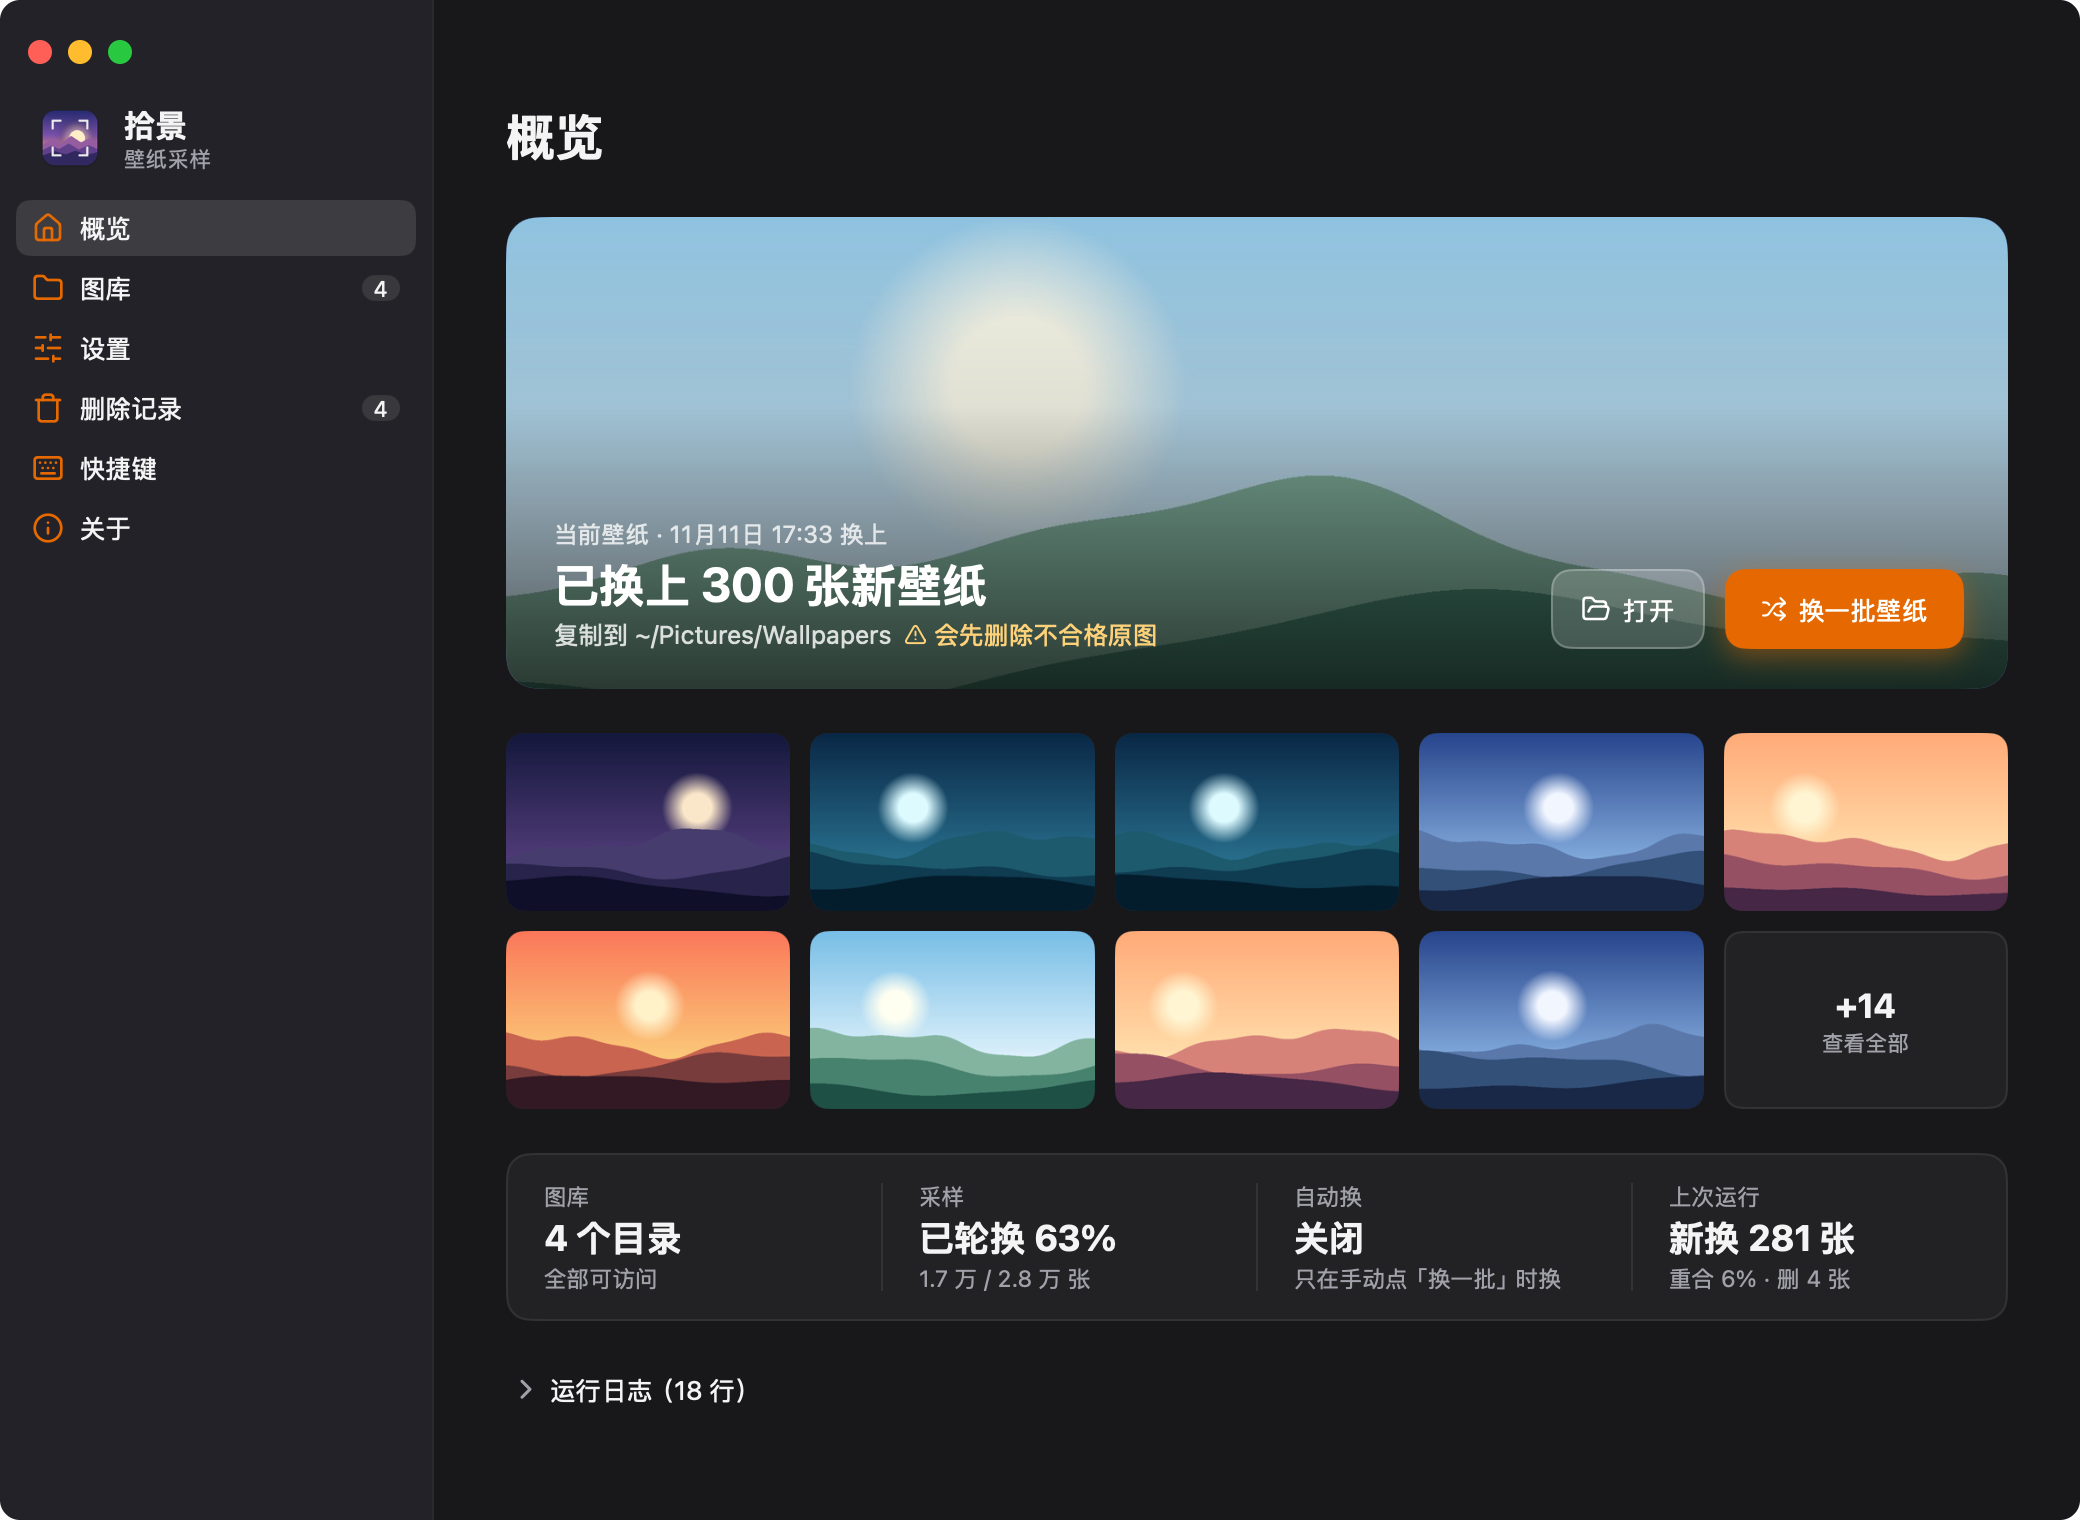
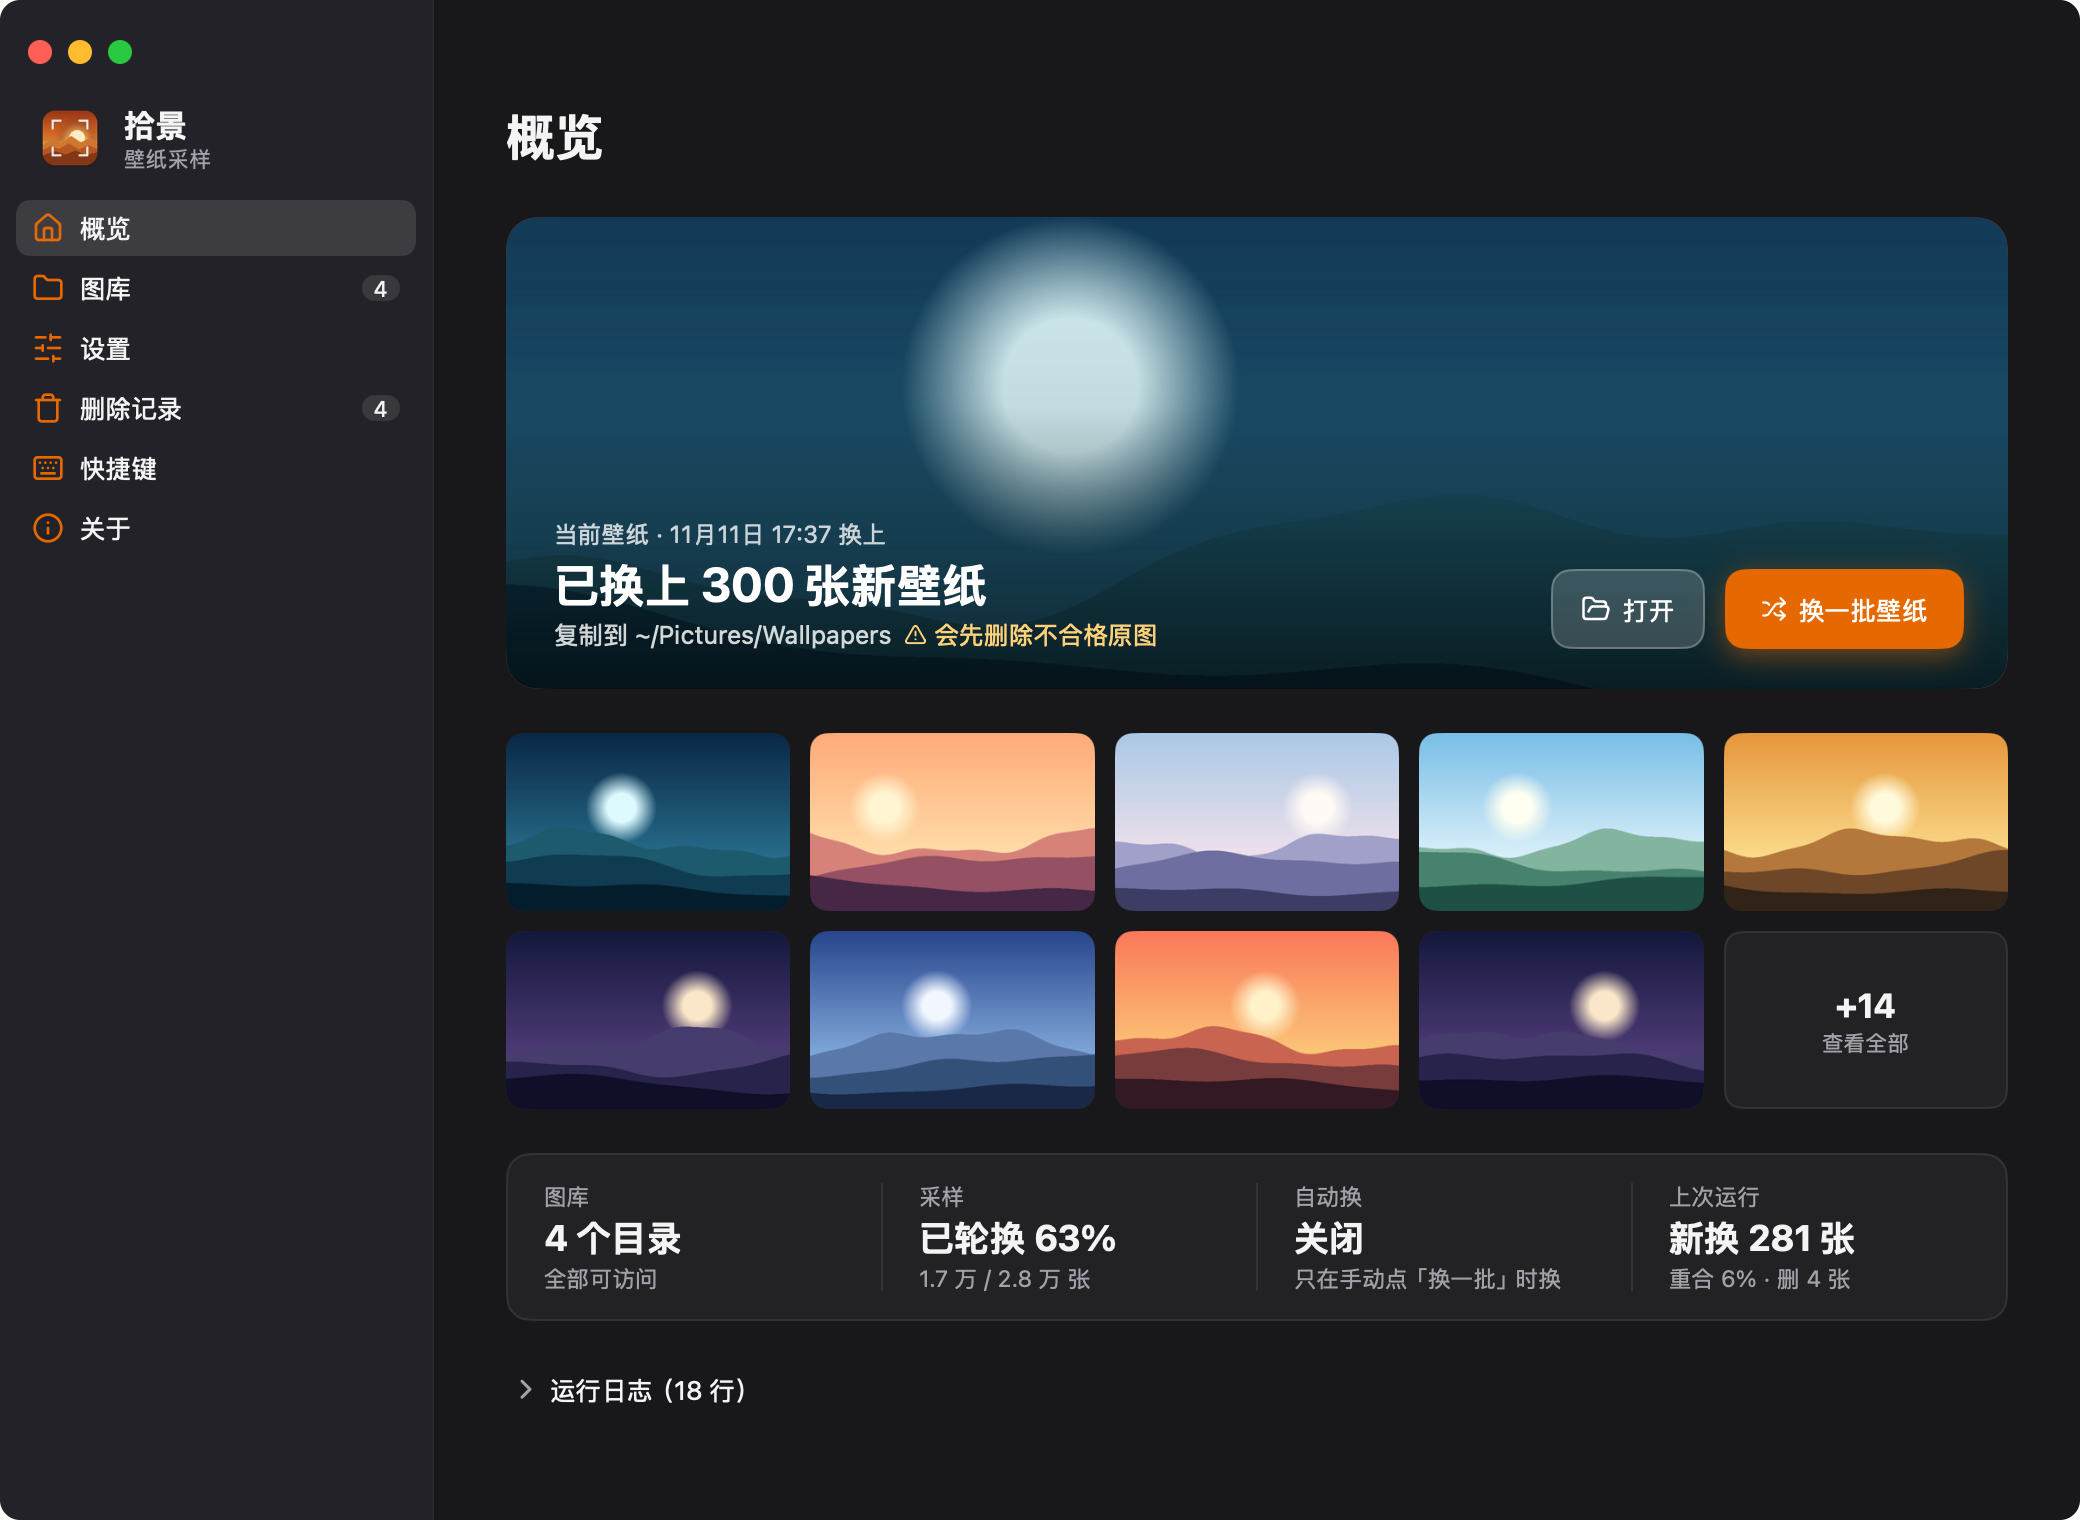
feat(拾景): 应用图标和横幅插画换成橙色日落（macOS 和 iOS 一起），新增 recolor_icon.py 记录换算方法，版本 v0.3.12

diff --git a/desktop/scripts/recolor_icon.py b/desktop/scripts/recolor_icon.py
@@ -1,0 +1,34 @@
+# 把应用图标里的紫色系换成橙色系（v0.3.11 起强调色是橙色）：只动紫 / 蓝 / 品红这一段色相，
+# 太阳的暖黄和白色取景框不动；明暗保持原样，所以山的层次、光晕都还在。
+# 用法：python3 recolor_icon.py 输入.png 输出.png
+# 注意：make_icon.py 是更早的画法，已经和现在的图标对不上，改图标以这个脚本 + 现有 PNG 为准。
+import sys
+
+import numpy as np
+from PIL import Image
+
+src = Image.open(sys.argv[1])
+alpha = src.getchannel("A") if src.mode == "RGBA" else None
+hsv = np.asarray(src.convert("RGB").convert("HSV")).astype(np.float32)
+h, s, v = hsv[..., 0] * 360 / 255, hsv[..., 1] / 255, hsv[..., 2] / 255
+
+# 紫色系：色相 110°–350°（含太阳光晕和紫色混出来的灰绿），有一定饱和度（白框、灰色不动）
+w = np.clip((s - 0.06) / 0.10, 0, 1)
+w *= np.clip((h - 100) / 20, 0, 1) * np.clip((355 - h) / 10, 0, 1)
+
+# 天空偏蓝紫的部分换成深一点的红橙，偏品红（靠近地平线）的换成亮橙，保留原来的渐变走向
+t = np.clip((h - 230) / 90, 0, 1)  # 0 = 蓝紫，1 = 品红
+nh = 14 + 20 * t  # 14°（红橙）→ 34°（橙）
+# 原图的紫偏灰，直接换色相会发闷成棕色：饱和度拉到 0.6 以上
+ns = np.clip(0.58 + 0.45 * s, 0, 0.95)
+# 暗部（夜空、近处的山）提亮一些，免得变成发黑的棕色
+nv = np.clip(v * 1.18 + 0.07, 0, 1)
+
+out = hsv.copy()
+out[..., 0] = (h * (1 - w) + nh * w) * 255 / 360
+out[..., 1] = (s * (1 - w) + ns * w) * 255
+out[..., 2] = (v * (1 - w) + nv * w) * 255
+img = Image.fromarray(out.round().clip(0, 255).astype(np.uint8), "HSV").convert("RGB")
+if alpha is not None:
+    img.putalpha(alpha)
+img.save(sys.argv[2])

diff --git a/desktop/theme.go b/desktop/theme.go
@@ -4,13 +4,14 @@ import (
 	"github.com/egoist/mygo/ui"
 )
 
-// 强调色是橙色（用户喜欢，v0.3.11 起；iOS 的 AccentColor 要保持一致）。暮色紫只用在横幅插画里，取自应用图标。
+// 强调色是橙色（用户喜欢，v0.3.11 起；iOS 的 AccentColor 要保持一致）。横幅插画的日落色取自应用图标
+// （v0.3.12 起图标也是橙色，由 scripts/recolor_icon.py 从原来的紫色图标换算，这几个颜色用的是同一套换算）。
 var (
 	sunGlow   = ui.Hex("#FDE7B8")
-	duskTop   = ui.Hex("#2A2470")
-	duskMid   = ui.Hex("#5B3F94")
-	duskHill  = ui.Hex("#8E5C9E")
-	duskFront = ui.Hex("#33275E")
+	duskTop   = ui.Hex("#963711")
+	duskMid   = ui.Hex("#C0571F")
+	duskHill  = ui.Hex("#CC742F")
+	duskFront = ui.Hex("#813714")
 )
 
 const (

diff --git a/CLAUDE.md b/CLAUDE.md
@@ -63,7 +63,7 @@ NAS/网络卷上同步来的文件经常带有 `SF_ARCHIVED`（superuser-only）
 ### 11. 拾景（`desktop/`）特有的注意点
 - 依赖 MyGo v0.8.x（0.x 阶段，小版本升级可能改 API）。升级前读 `desktop/.agents/skills/mygo-maintenance/SKILL.md`，用 `go tool mygo migrate-ui .` 预览迁移；改完跑 `go tool mygo vet .` 和 `CGO_ENABLED=0 go test ./...`。
 - 配置、增量状态、删除日志、窗口位置都在 `~/Library/Application Support/拾景/`，不是仓库目录（`.app` 位置不固定，不能像 Python 版那样相对脚本目录找文件）。状态文件故意不和 Python 版共享。改名前叫「壁纸工具」，`main.go` 启动时会用 `core.MigrateDataDir` 把旧目录搬过来（新目录已存在就不动）。以后再改 `appName` 也要照此迁移，否则用户配置会"丢"。
-- 窗口用 `TitleBarHiddenInset` + `VibrancySidebar`：侧边栏顶部和内容区顶部各留了一条 `DragWindow()` 的拖拽区，侧边栏背景透明才能透出毛玻璃（`c.Vibrancy()` 为 false 时退回纯色）。配色和通用组件（`panel`/`group`/`settingRow`/`sceneArt` 插画）集中在 `theme.go`。强调色是橙色（用户定的，v0.3.11 起：浅色 #E45C00、深色 #E56900），改的话 iOS 的 `Assets.xcassets/AccentColor` 要一起改；横幅插画的暮色紫来自应用图标，不跟强调色走。
+- 窗口用 `TitleBarHiddenInset` + `VibrancySidebar`：侧边栏顶部和内容区顶部各留了一条 `DragWindow()` 的拖拽区，侧边栏背景透明才能透出毛玻璃（`c.Vibrancy()` 为 false 时退回纯色）。配色和通用组件（`panel`/`group`/`settingRow`/`sceneArt` 插画）集中在 `theme.go`。强调色是橙色（用户定的，v0.3.11 起：浅色 #E45C00、深色 #E56900），改的话 iOS 的 `Assets.xcassets/AccentColor` 要一起改；应用图标（`desktop/resources/icon.png` 和 iOS 的 `AppIcon.png`）v0.3.12 起也是橙色日落，是用 `desktop/scripts/recolor_icon.py` 从原来的紫色图标换算的；`make_icon.py` 是更早的画法，和现在的图标对不上。横幅插画（`sceneArt`）的颜色取自图标、用同一套换算。
 - 概览页缩略图由 `thumbs.go` 的 `scanWallpapers` 在后台解码缩小，`Bitmap` 回主线程再建；只读本地 `dest_dir`，运行结束 `wallsGen++` 触发重读。缩略图网格的行列数由 `stripLayout` 按**上一帧**量到的尺寸算（网格宽度定列数，滚动区高度 − 页面其余部分高度定行数，后者与行数无关所以不会来回跳），算出来变了就 `c.AnimationFrame()` 再排一帧；概览页不受 `contentMax` 限制、铺满窗口宽度。先解码 `initialThumbs` 张，放得下更多时 `loadMoreThumbs` 接着解码网格前面还没解码的（`decodeWorkers` 限并发，原图很大）。壁纸列表只有一份 `walls.all`（打乱后的顺序，横幅图也在内），缩略图按路径存在 `walls.thumbs`（值为 nil 表示读不了），网格是 `walls.grid()`（去掉横幅图和读不了的）——别再加平行的切片，移出 / 撤销只需要改 `all`。网格最后一格「+N」在预览里从第一张没显示的开始翻；Finder 里打开用横幅上的「打开」。`app.scanWallpapers` 是注入的，测试里设成 nil，界面测试不读真实目录。
 - 「换上时间」和「上次运行」来自 `ui_state.json`（`uistate.go`），**不要**改用壁纸文件夹里文件的 mtime：复制时 `copyFile` 会用 `Chtimes` 保留原图的修改时间，那是原图的时间，不是换上的时间。命令行跑的不会写这个文件。
 - v0.3.0 加的几样，改相关代码时注意：
